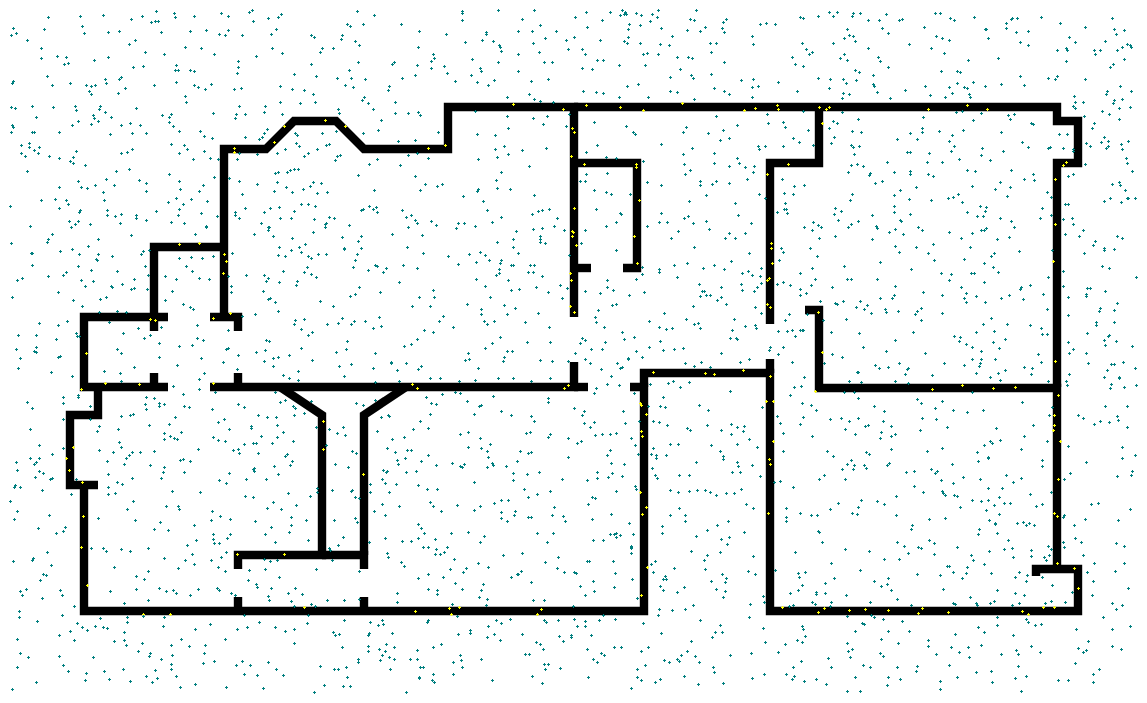
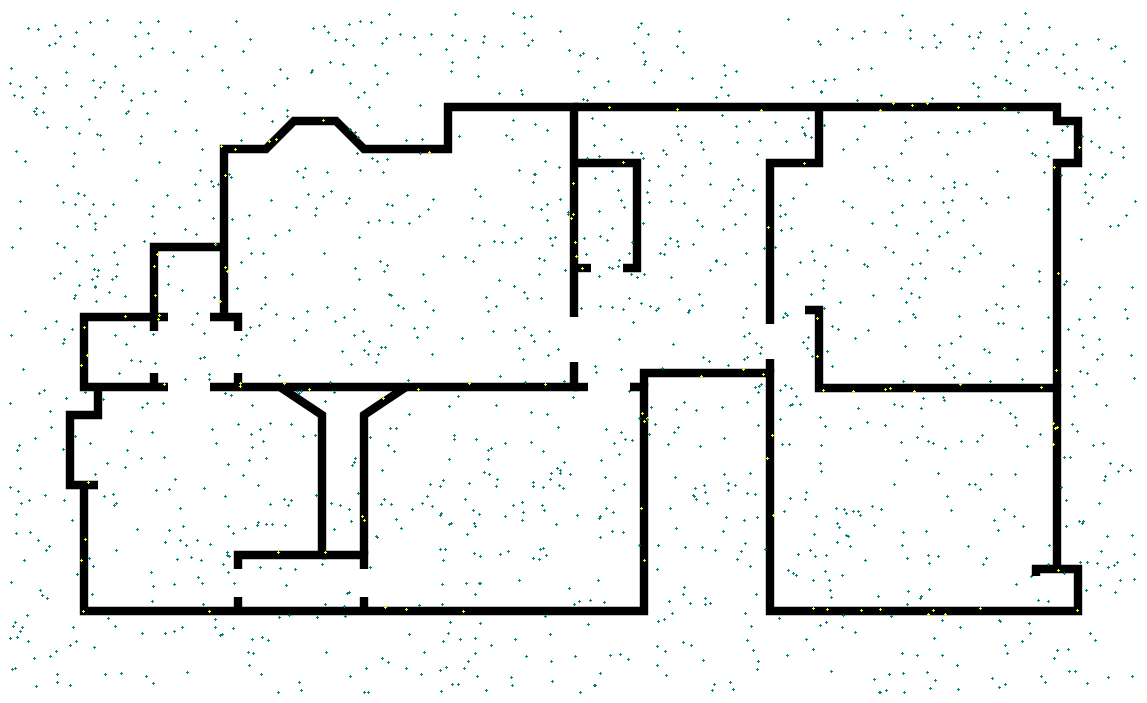
Adjustment

diff --git a/ros2_ws/src/cpmr_ch2/cpmr_ch2/rrt_map.py b/ros2_ws/src/cpmr_ch2/cpmr_ch2/rrt_map.py
@@ -7,7 +7,7 @@ import time
 from scipy.spatial import KDTree
 
 
-numberOfNodes = 3000
+numberOfNodes = 1500
 fileName = "big_house.png"
 map = cv2.imread(fileName)
 
@@ -172,7 +172,8 @@ def mainRead(map, start_x = 250, start_y = 250, finish_x = 15, finish_y = 15):
         newNode = newNode.prev
 
     cv2.imwrite("_output_image"+fileName,map)
-    return newNode
+    return rrt
+
 
 def movingInRos(listOfNodes):
 
@@ -195,6 +196,6 @@ def movingInRos(listOfNodes):
 
 
 
-listOfNodes = mainRead(map, start_x=250,start_y=175,finish_x=900,finish_y=300)
+listOfNodes = mainRead(map, start_x=130,start_y=580,finish_x=900,finish_y=300)
 x = input("____________________\n PRESS TO CONINTUE \n________________\n")
 movingInRos(listOfNodes)
